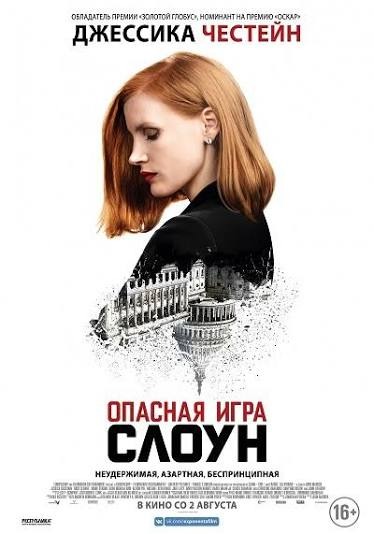
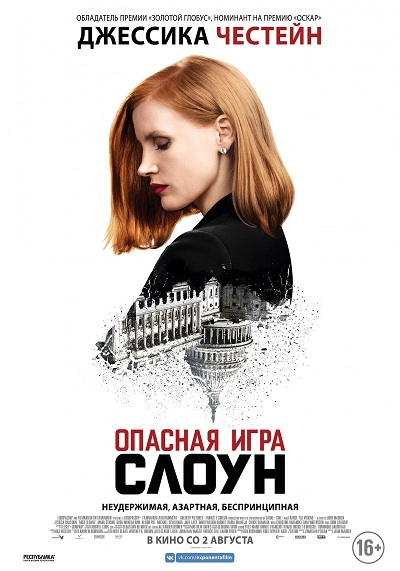
miss-sloane: stress fixes, better poster
Claude-Session: https://claude.ai/code/session_012yuNt7He5F9aorsSyxckB6

diff --git a/videos/miss-sloane/progress.md b/videos/miss-sloane/progress.md
@@ -2,7 +2,7 @@
 
 - [x] 1. Факты (2 источника на факт → sources)
 - [x] 2. Текст рассказа утверждён (вариант A, сцены 6–7 заменены)
-- [x] 3. Раскадровка утверждена (v1) · стиль рисовки: 2D вектор · шрифты: futura + textStyle pop · фраза обложки: «Самая / Опасная» · постер получен (374×534, русский, низкое разрешение)
+- [x] 3. Раскадровка утверждена (v1) · стиль рисовки: 2D вектор · шрифты: futura + textStyle pop · фраза обложки: «Самая / Опасная» · постер получен (русский, заменён на версию крупнее)
 - [ ] 4. Смета озвучки подтверждена
 - [ ] 5. Озвучка готова, голос одобрен (потрачено: …)
 - [ ] 6. Черновые кадры сцен и обложки одобрены
@@ -77,6 +77,6 @@
 | 9 | poster (onPoster) | Фильм «Опасная игра Слоун»… | Постер, «Miss Sloane · 2016», плашка «Отправь другу» | — |
 
 ## Смета (этап 4, на подтверждение)
-- script.json заполнен: 9 сцен, eleven_v4, голос 6A9D8WSMm4rFsg2DWFeE, tempo 1.2; ударения: Слоу́н, ло́бби/ло́ббистка, друго́й; теги: [serious] (сц.1), [laughs] (сц.4).
+- script.json заполнен: 9 сцен, eleven_v4, голос 6A9D8WSMm4rFsg2DWFeE, tempo 1.2; ударения: Сло́ун, ло́бби, лобби́стка, друго́й (поправка пользователя); теги: [serious] (сц.1), [laughs] (сц.4).
 - Озвучка 906 символов ≈ 906 кредитов (на «Старикам» по смете 946, фактически списано 197); звуков и музыки нет.
 - Баланс до генерации: 28404 из 37904.
